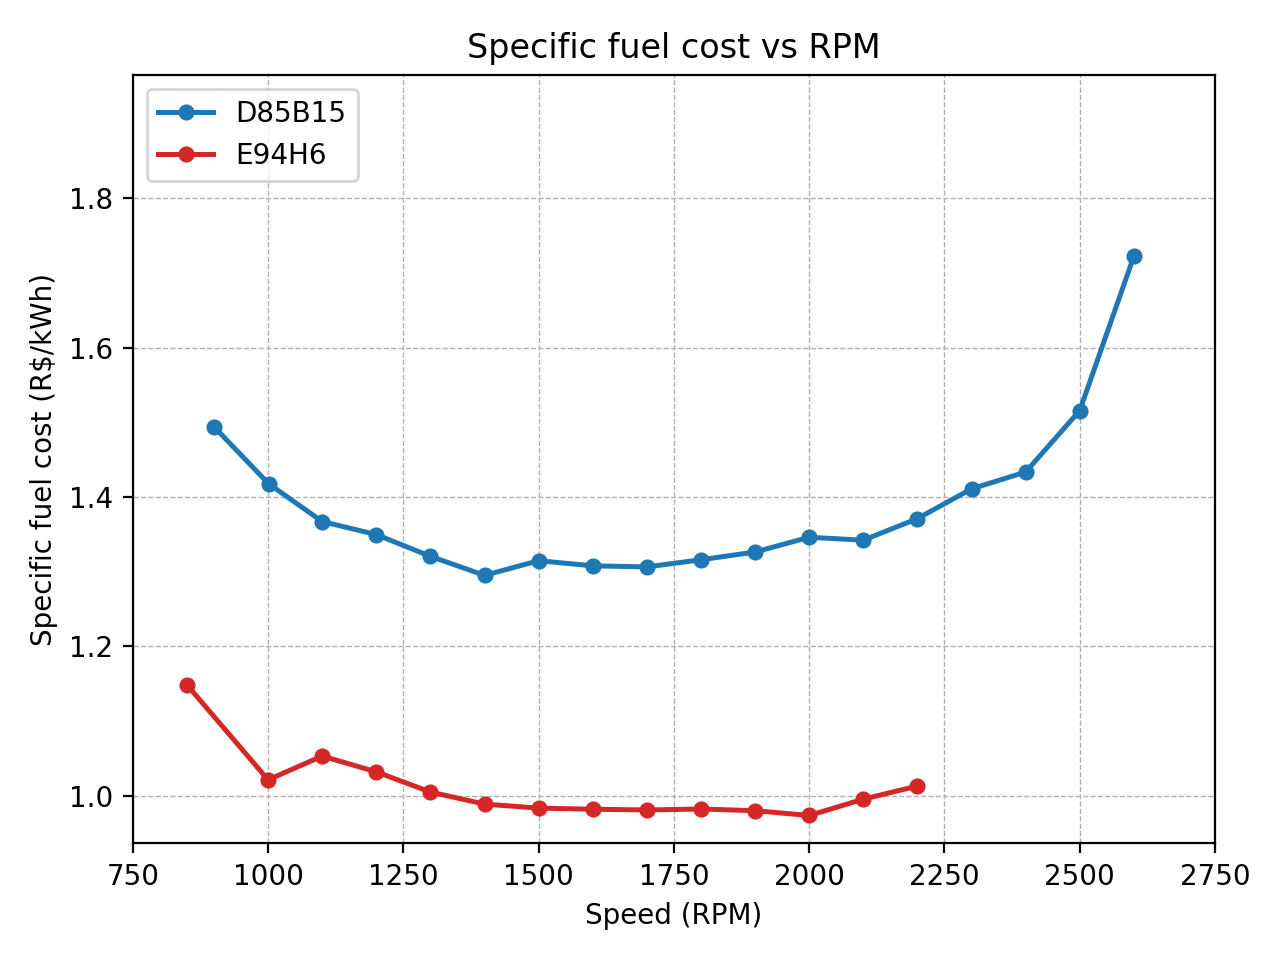
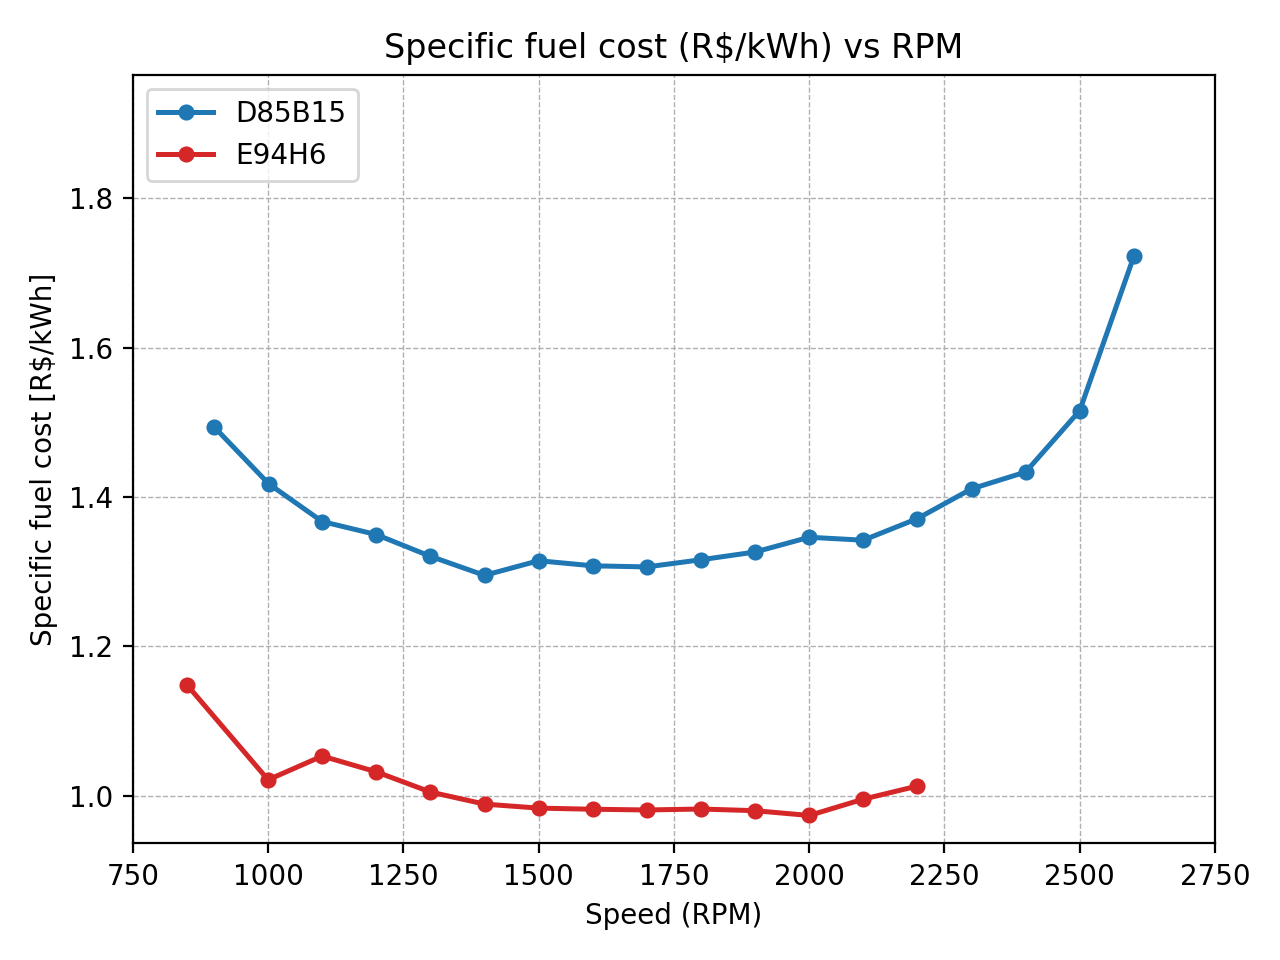
Clarify specific cost axis labels in FPT plots

Changed region(s): [[0.2812, 0.0312, 0.75, 0.0625]]

diff --git a/pipeline_FPT.py b/pipeline_FPT.py
@@ -1885,9 +1885,9 @@ def make_plots(df: pd.DataFrame, plot_dir: Path) -> None:
     plot_dual_fuel_metric(
         df,
         y_col="Custo_R_kWh",
-        title="Specific fuel cost vs RPM",
+        title="Specific fuel cost (R$/kWh) vs RPM",
         filename="custo_especifico_r_kwh_vs_rpm.png",
-        y_label="Specific fuel cost (R$/kWh)",
+        y_label="Specific fuel cost [R$/kWh]",
         plot_dir=plot_dir,
     )
     plot_dual_fuel_metric(
@@ -2011,9 +2011,9 @@ def make_plots(df: pd.DataFrame, plot_dir: Path) -> None:
     plot_ethanol_delta(
         df,
         y_col="Economia_vs_Diesel_R_kWh",
-        title="Specific cost delta vs diesel",
+        title="Specific cost delta vs diesel (R$/kWh)",
         filename="economia_r_kwh_vs_diesel_rpm.png",
-        y_label="Delta specific cost vs diesel (R$/kWh)",
+        y_label="Delta specific cost vs diesel [R$/kWh]",
         plot_dir=plot_dir,
     )
     plot_ethanol_delta(

diff --git a/CHANGELOG.md b/CHANGELOG.md
@@ -87,6 +87,7 @@ Todas as mudancas relevantes deste repositorio devem ser registradas aqui.
 - A eficiencia volumetrica agora usa `1013 mBar` de referencia, `T_i_MF` como temperatura de referencia e cilindrada detectada pelo nome do arquivo (`NEF67/NEF6 -> 6,7 L`; `C13/Cursore 13/Cursor 13 -> 12,9 L`) com `6` cilindros.
 - Adicionada a eficiencia volumetrica corrigida pela pressao do coletor, usando `P_i_MF_abs = P_i_MF_rel + 1013 mBar` e `T_i_MF`, para separar o enchimento real de aspiracao do ganho aparente por boost.
 - A potencia dissipada no intercooler agora usa `Air_kg_h * cp_ar * (T_B_IC - T_i_MF)`, com `cp_ar = 1,005 kJ/kg.K`.
+- Os plots de custo especifico passaram a explicitar `R$/kWh` de forma mais visivel no titulo e no eixo Y.
 - O fluxo do FPT agora salva o `lv_kpis_fpt.xlsx` bruto e so depois aplica o filtro manual de pontos para comparativos e plots.
 
 ## 2026-03-12

diff --git a/HANDOFF_FPT.md b/HANDOFF_FPT.md
@@ -146,6 +146,7 @@ Repositorio separado para o processamento FPT Diesel vs Etanol, sem dependencia 
   - `NEF67` e `NEF6` -> `6,7 L`
   - `C13`, `Cursore 13` e `Cursor 13` -> `12,9 L`
 - a eficiencia volumetrica corrigida pela pressao do coletor usa `P_i_MF_abs = P_i_MF_rel + 1013 mBar` e `T_i_MF` para remover o ganho aparente de enchimento causado pelo boost;
+- os plots de custo especifico deixam `R$/kWh` explicito tanto no titulo quanto no eixo Y para facilitar leitura rapida;
 - a potencia dissipada no intercooler usa `Air_kg_h`, `T_B_IC`, `T_i_MF` e `cp_ar = 1,005 kJ/kg.K`;
 - manter `raw_FPT/` fora do Git
 - versionar `out_FPT/` quando os resultados precisarem acompanhar o codigo
